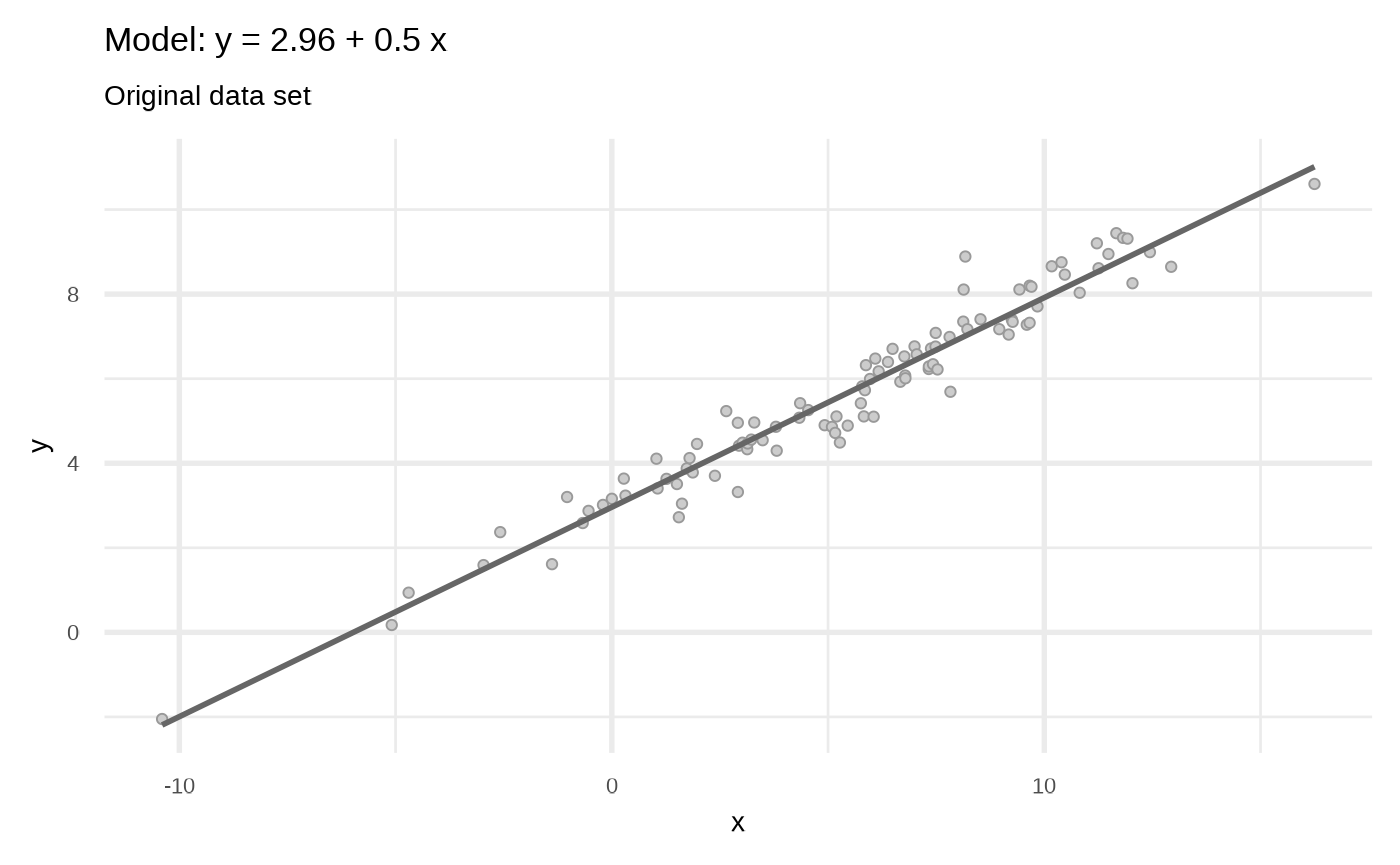
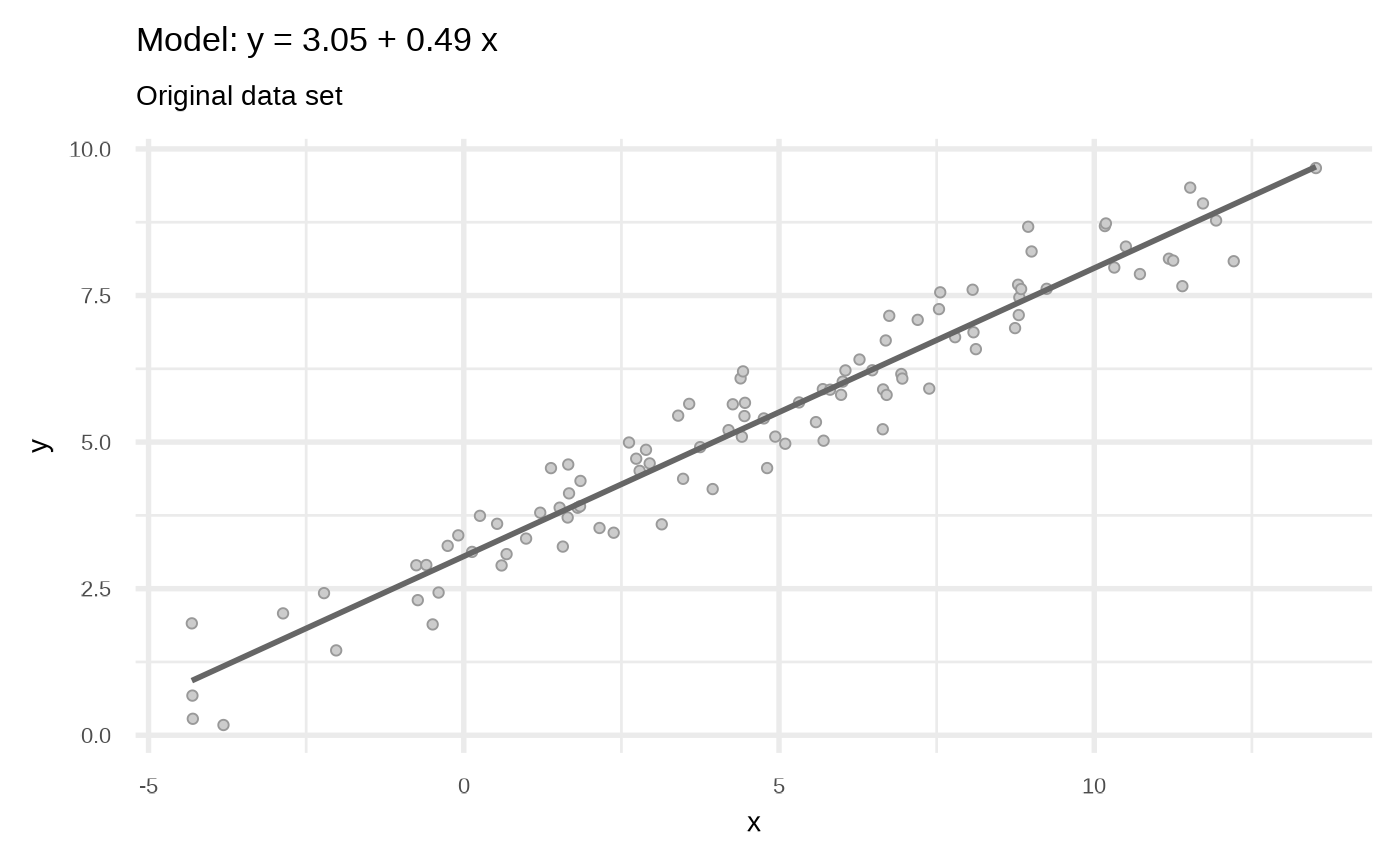
Built site for klassets: 0.0.0.9000@a95f5fd

diff --git a/articles/Quasi-Anscombe-data-sets.html b/articles/Quasi-Anscombe-data-sets.html
@@ -216,28 +216,23 @@
 <span class="co">#&gt; <span style="color: #949494;"># A tibble: 11 × 3</span></span>
 <span class="co">#&gt;    set      `(Intercept)`     x</span>
 <span class="co">#&gt;    <span style="color: #949494; font-style: italic;">&lt;chr&gt;</span>            <span style="color: #949494; font-style: italic;">&lt;dbl&gt;</span> <span style="color: #949494; font-style: italic;">&lt;dbl&gt;</span></span>
-<span class="co">#&gt; <span style="color: #BCBCBC;"> 1</span> Original          2.96 0.496</span>
-<span class="co">#&gt; <span style="color: #BCBCBC;"> 2</span> Set 2 v1          2.96 0.495</span>
-<span class="co">#&gt; <span style="color: #BCBCBC;"> 3</span> Set 2 v2          2.96 0.496</span>
-<span class="co">#&gt; <span style="color: #BCBCBC;"> 4</span> Set 3 v1          2.96 0.496</span>
-<span class="co">#&gt; <span style="color: #BCBCBC;"> 5</span> Set 3 v2          2.96 0.496</span>
-<span class="co">#&gt; <span style="color: #BCBCBC;"> 6</span> Set 4 v1          2.96 0.496</span>
-<span class="co">#&gt; <span style="color: #BCBCBC;"> 7</span> Set 4 v2          2.96 0.496</span>
-<span class="co">#&gt; <span style="color: #BCBCBC;"> 8</span> Set 5 v1          2.96 0.496</span>
-<span class="co">#&gt; <span style="color: #BCBCBC;"> 9</span> Set 5 v2          2.96 0.496</span>
-<span class="co">#&gt; <span style="color: #BCBCBC;">10</span> Set 6 v1          2.96 0.496</span>
-<span class="co">#&gt; <span style="color: #BCBCBC;">11</span> Set 6 v2          2.96 0.496</span></code></pre></div>
+<span class="co">#&gt; <span style="color: #BCBCBC;"> 1</span> Original          3.05 0.492</span>
+<span class="co">#&gt; <span style="color: #BCBCBC;"> 2</span> Set 2 v1          3.05 0.492</span>
+<span class="co">#&gt; <span style="color: #BCBCBC;"> 3</span> Set 2 v2          3.05 0.492</span>
+<span class="co">#&gt; <span style="color: #BCBCBC;"> 4</span> Set 3 v1          3.05 0.492</span>
+<span class="co">#&gt; <span style="color: #BCBCBC;"> 5</span> Set 3 v2          3.05 0.492</span>
+<span class="co">#&gt; <span style="color: #BCBCBC;"> 6</span> Set 4 v1          3.05 0.492</span>
+<span class="co">#&gt; <span style="color: #BCBCBC;"> 7</span> Set 4 v2          3.05 0.492</span>
+<span class="co">#&gt; <span style="color: #BCBCBC;"> 8</span> Set 5 v1          3.05 0.492</span>
+<span class="co">#&gt; <span style="color: #BCBCBC;"> 9</span> Set 5 v2          3.05 0.492</span>
+<span class="co">#&gt; <span style="color: #BCBCBC;">10</span> Set 6 v1          3.05 0.492</span>
+<span class="co">#&gt; <span style="color: #BCBCBC;">11</span> Set 6 v2          3.05 0.492</span></code></pre></div>
 </div>
 <div class="section level2">
 <h2 id="animated-version">Animated version<a class="anchor" aria-label="anchor" href="#animated-version"></a>
 </h2>
 <div class="sourceCode" id="cb12"><pre class="downlit sourceCode r">
 <code class="sourceCode R"><span class="kw"><a href="https://rdrr.io/r/base/library.html" class="external-link">library</a></span><span class="op">(</span><span class="va"><a href="https://gganimate.com" class="external-link">gganimate</a></span><span class="op">)</span>
-<span class="co">#&gt; No renderer backend detected. gganimate will default to writing frames to separate files</span>
-<span class="co">#&gt; Consider installing:</span>
-<span class="co">#&gt; - the `gifski` package for gif output</span>
-<span class="co">#&gt; - the `av` package for video output</span>
-<span class="co">#&gt; and restarting the R session</span>
 <span class="kw"><a href="https://rdrr.io/r/base/library.html" class="external-link">library</a></span><span class="op">(</span><span class="va"><a href="http://stringr.tidyverse.org" class="external-link">stringr</a></span><span class="op">)</span>
 
 <span class="va">dfs</span> <span class="op">&lt;-</span> <span class="va">dfs</span> |&gt; 
@@ -250,7 +245,7 @@
     set <span class="op">=</span> <span class="fu">forcats</span><span class="fu">::</span><span class="fu"><a href="https://forcats.tidyverse.org/reference/fct_inorder.html" class="external-link">fct_inorder</a></span><span class="op">(</span><span class="va">set</span><span class="op">)</span>
     <span class="op">)</span>
 
-<span class="fu"><a href="https://ggplot2.tidyverse.org/reference/ggplot.html" class="external-link">ggplot</a></span><span class="op">(</span><span class="va">dfs</span>, <span class="fu"><a href="https://ggplot2.tidyverse.org/reference/aes.html" class="external-link">aes</a></span><span class="op">(</span><span class="va">x</span>, <span class="va">y</span><span class="op">)</span><span class="op">)</span> <span class="op">+</span>
+<span class="va">gga</span> <span class="op">&lt;-</span> <span class="fu"><a href="https://ggplot2.tidyverse.org/reference/ggplot.html" class="external-link">ggplot</a></span><span class="op">(</span><span class="va">dfs</span>, <span class="fu"><a href="https://ggplot2.tidyverse.org/reference/aes.html" class="external-link">aes</a></span><span class="op">(</span><span class="va">x</span>, <span class="va">y</span><span class="op">)</span><span class="op">)</span> <span class="op">+</span>
   <span class="fu"><a href="https://ggplot2.tidyverse.org/reference/geom_point.html" class="external-link">geom_point</a></span><span class="op">(</span>shape <span class="op">=</span> <span class="fl">21</span>, fill <span class="op">=</span> <span class="st">"gray80"</span>, color <span class="op">=</span> <span class="st">"gray60"</span><span class="op">)</span> <span class="op">+</span>
   <span class="fu"><a href="https://ggplot2.tidyverse.org/reference/geom_smooth.html" class="external-link">geom_smooth</a></span><span class="op">(</span>method <span class="op">=</span> <span class="st">"lm"</span>, se <span class="op">=</span> <span class="cn">FALSE</span>, formula <span class="op">=</span> <span class="va">y</span> <span class="op">~</span> <span class="va">x</span><span class="op">)</span> <span class="op">+</span>
   <span class="fu"><a href="https://ggplot2.tidyverse.org/reference/facet_null.html" class="external-link">facet_null</a></span><span class="op">(</span><span class="op">)</span> <span class="op">+</span>
@@ -263,7 +258,9 @@
   <span class="fu"><a href="https://gganimate.com/reference/ease_aes.html" class="external-link">ease_aes</a></span><span class="op">(</span><span class="st">"cubic-in-out"</span><span class="op">)</span> <span class="op">+</span>
   <span class="co"># shadow_wake(wake_length = 0.2, alpha = 0.1) +</span>
   <span class="fu"><a href="https://gganimate.com/reference/transition_states.html" class="external-link">transition_states</a></span><span class="op">(</span><span class="va">set</span>, transition_length <span class="op">=</span> <span class="fl">2</span>, state_length <span class="op">=</span> <span class="fl">1</span><span class="op">)</span>
-<span class="co">#&gt; NULL</span></code></pre></div>
+
+<span class="va">gga</span></code></pre></div>
+<p><img src="../../../../../../../tmp/Rtmpiz3uGy/file42a97a579ffa/articles/Quasi-Anscombe-data-sets_files/figure-html/unnamed-chunk-12-1.gif"><!-- --></p>
 </div>
 <div class="section level2">
 <h2 id="residuals">Residuals<a class="anchor" aria-label="anchor" href="#residuals"></a>
